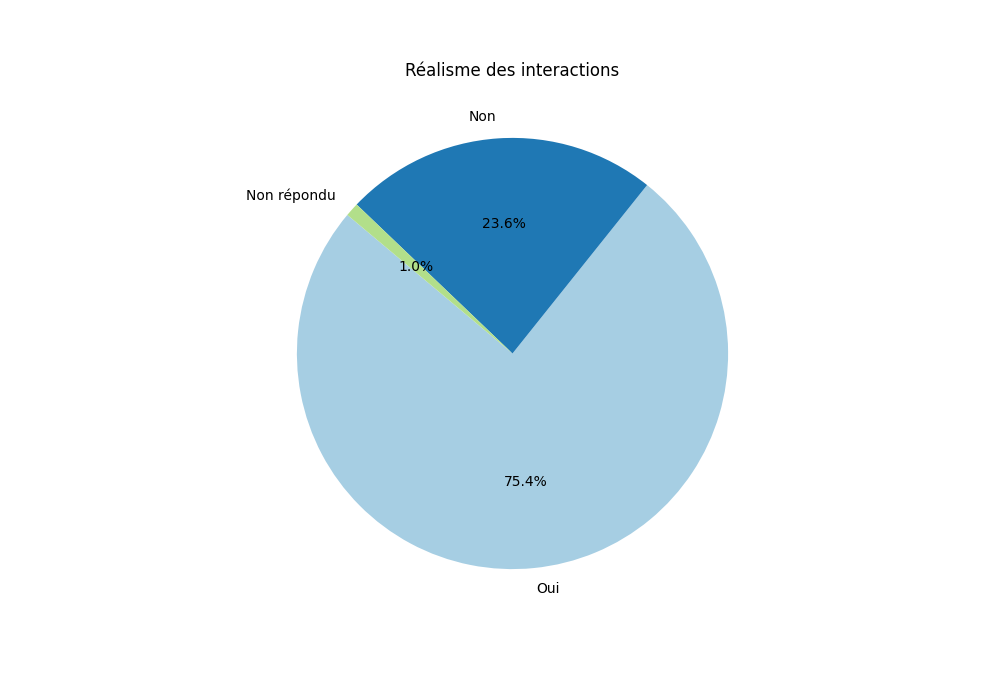
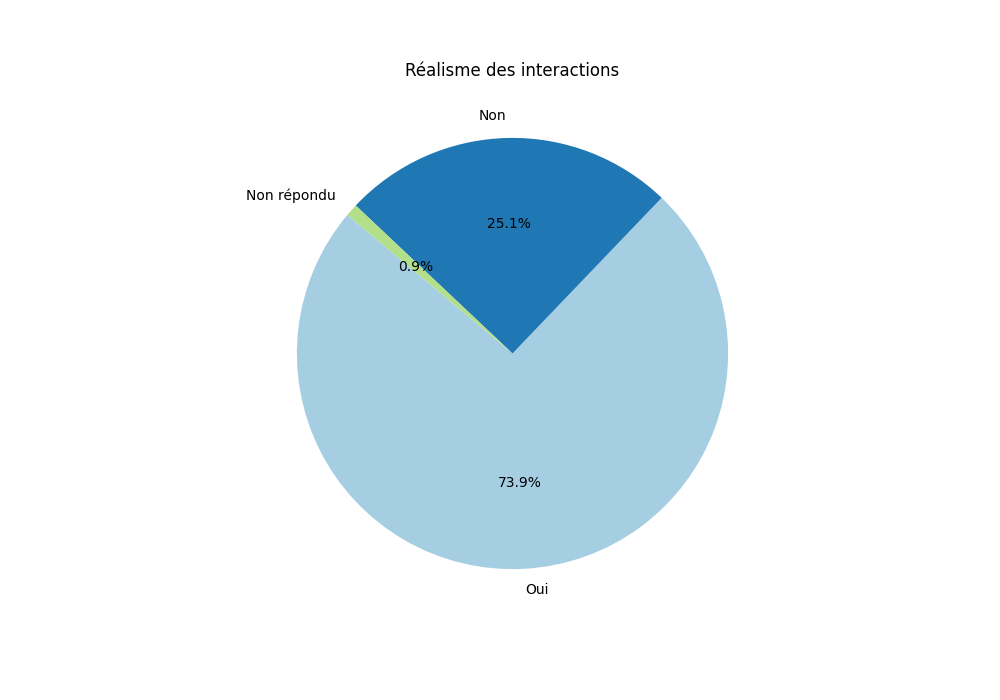
ajout évaluations et MAJ rapport

diff --git a/sondages/conversations/output/rapport_statistique.md b/sondages/conversations/output/rapport_statistique.md
@@ -1,7 +1,7 @@
 # Rapport Statistique
 
-## Nombre total de conversations : 39
-## Nombre total d'échanges : 195
+## Nombre total de conversations : 43
+## Nombre total d'échanges : 215
 
 ## Graphiques
 
@@ -19,134 +19,134 @@
 
 ## Statistiques pour Échange 1
 ### Note pertinence question
-- **Moyenne**: 4.846153846153846
+- **Moyenne**: 4.8604651162790695
 - **Médiane**: 5.0
-- **Écart-type**: 0.36551776819519566
+- **Écart-type**: 0.350604603563426
 - **Min**: 4.0
 - **Max**: 5.0
-- **Nombre de valeurs**: 39
+- **Nombre de valeurs**: 43
 ### Note pertinence réponse
-- **Moyenne**: 4.512820512820513
+- **Moyenne**: 4.511627906976744
 - **Médiane**: 5.0
-- **Écart-type**: 0.9139790067782242
+- **Écart-type**: 0.8829628968976533
 - **Min**: 2
 - **Max**: 5
-- **Nombre de valeurs**: 39
+- **Nombre de valeurs**: 43
 ### Réalisme interaction
-- **Oui**: 84.62%
-- **Non**: 12.82%
-- **Non répondu**: 2.56%
+- **Oui**: 83.72%
+- **Non**: 13.95%
+- **Non répondu**: 2.33%
 ### Réalisme moyen
-- 84.61538461538461
+- 83.72093023255815
 
 ## Statistiques pour Échange 2
 ### Note pertinence question
-- **Moyenne**: 4.743589743589744
+- **Moyenne**: 4.767441860465116
 - **Médiane**: 5.0
-- **Écart-type**: 0.5485842409017252
+- **Écart-type**: 0.5272213460490666
 - **Min**: 3.0
 - **Max**: 5.0
-- **Nombre de valeurs**: 39
+- **Nombre de valeurs**: 43
 ### Note pertinence réponse
-- **Moyenne**: 4.410256410256411
+- **Moyenne**: 4.465116279069767
 - **Médiane**: 5.0
-- **Écart-type**: 0.7510676161988108
+- **Écart-type**: 0.7351331984685407
 - **Min**: 3
 - **Max**: 5
-- **Nombre de valeurs**: 39
+- **Nombre de valeurs**: 43
 ### Réalisme interaction
-- **Oui**: 82.05%
-- **Non**: 15.38%
-- **Non répondu**: 2.56%
+- **Oui**: 83.72%
+- **Non**: 13.95%
+- **Non répondu**: 2.33%
 ### Réalisme moyen
-- 82.05128205128204
+- 83.72093023255815
 
 ## Statistiques pour Échange 3
 ### Note pertinence question
-- **Moyenne**: 4.512820512820513
+- **Moyenne**: 4.488372093023256
 - **Médiane**: 5.0
-- **Écart-type**: 0.854455655336526
+- **Écart-type**: 0.8555725741740722
 - **Min**: 1.0
 - **Max**: 5.0
-- **Nombre de valeurs**: 39
+- **Nombre de valeurs**: 43
 ### Note pertinence réponse
-- **Moyenne**: 3.8461538461538463
+- **Moyenne**: 3.86046511627907
 - **Médiane**: 4.0
-- **Écart-type**: 1.1364409248652136
+- **Écart-type**: 1.125069211603006
 - **Min**: 1
 - **Max**: 5
-- **Nombre de valeurs**: 39
+- **Nombre de valeurs**: 43
 ### Réalisme interaction
-- **Oui**: 79.49%
-- **Non**: 20.51%
+- **Oui**: 76.74%
+- **Non**: 23.26%
 ### Réalisme moyen
-- 79.48717948717949
+- 76.74418604651163
 
 ## Statistiques pour Échange 4
 ### Note pertinence question
-- **Moyenne**: 4.157894736842105
+- **Moyenne**: 4.142857142857143
 - **Médiane**: 4.0
-- **Écart-type**: 0.9733285267845754
+- **Écart-type**: 1.0017406453556186
 - **Min**: 2.0
 - **Max**: 5.0
-- **Nombre de valeurs**: 38
+- **Nombre de valeurs**: 42
 ### Note pertinence réponse
-- **Moyenne**: 4.076923076923077
+- **Moyenne**: 4.069767441860465
 - **Médiane**: 4.0
-- **Écart-type**: 1.0608987099975635
+- **Écart-type**: 1.0778141203205438
 - **Min**: 1
 - **Max**: 5
-- **Nombre de valeurs**: 39
+- **Nombre de valeurs**: 43
 ### Réalisme interaction
-- **Oui**: 66.67%
-- **Non**: 33.33%
+- **Oui**: 67.44%
+- **Non**: 32.56%
 ### Réalisme moyen
-- 66.66666666666666
+- 67.44186046511628
 
 ## Statistiques pour Échange 5
 ### Note pertinence question
-- **Moyenne**: 4.358974358974359
+- **Moyenne**: 4.209302325581396
 - **Médiane**: 5.0
-- **Écart-type**: 0.842526885005348
-- **Min**: 3.0
+- **Écart-type**: 0.9400643223910575
+- **Min**: 2.0
 - **Max**: 5.0
-- **Nombre de valeurs**: 39
+- **Nombre de valeurs**: 43
 ### Note pertinence réponse
-- **Moyenne**: 3.7435897435897436
+- **Moyenne**: 3.604651162790698
 - **Médiane**: 4.0
-- **Écart-type**: 1.2078242447507945
+- **Écart-type**: 1.2562137913989786
 - **Min**: 1
 - **Max**: 5
-- **Nombre de valeurs**: 39
+- **Nombre de valeurs**: 43
 ### Réalisme interaction
-- **Oui**: 64.1%
-- **Non**: 35.9%
+- **Oui**: 58.14%
+- **Non**: 41.86%
 ### Réalisme moyen
-- 64.1025641025641
+- 58.139534883720934
 
 ## Statistiques pour Global
 ### Note pertinence question
-- **Moyenne**: 4.525773195876289
+- **Moyenne**: 4.4953271028037385
 - **Médiane**: 5.0
-- **Écart-type**: 0.7831487329560498
+- **Écart-type**: 0.8207843697971494
 - **Min**: 1.0
 - **Max**: 5.0
-- **Nombre de valeurs**: 194
+- **Nombre de valeurs**: 214
 ### Note pertinence réponse
-- **Moyenne**: 4.1179487179487175
+- **Moyenne**: 4.102325581395349
 - **Médiane**: 5.0
-- **Écart-type**: 1.0607505111199012
+- **Écart-type**: 1.0803011807662548
 - **Min**: 1
 - **Max**: 5
-- **Nombre de valeurs**: 195
+- **Nombre de valeurs**: 215
 ### Réalisme interaction
-- **Oui**: 75.38%
-- **Non**: 23.59%
-- **Non répondu**: 1.03%
+- **Oui**: 73.95%
+- **Non**: 25.12%
+- **Non répondu**: 0.93%
 
 ## Conversations les plus mal notées
-- **Moins pertinente** : conversation_6 (Score: 3.6)
-- **Moins réaliste** : conversation_6 (Score: 30.0)
+- **Moins pertinente** : conversation_7 (Score: 3.7333333333333334)
+- **Moins réaliste** : conversation_11 (Score: 40.0)
 ## Conversations les mieux notées
 - **Plus pertinente** : conversation_12 (Score: 4.8)
 - **Plus réaliste** : conversation_10 (Score: 100.0)
@@ -162,11 +162,11 @@
 - **conversation_16** : 1.0 évaluations
 - **conversation_17** : 4.0 évaluations
 - **conversation_18** : 3.0 évaluations
-- **conversation_2** : 1.0 évaluations
-- **conversation_3** : 3.0 évaluations
+- **conversation_2** : 2.0 évaluations
+- **conversation_3** : 4.0 évaluations
 - **conversation_4** : 1.0 évaluations
 - **conversation_5** : 2.0 évaluations
-- **conversation_6** : 2.0 évaluations
+- **conversation_6** : 4.0 évaluations
 - **conversation_7** : 3.0 évaluations
 - **conversation_8** : 3.0 évaluations
 - **conversation_9** : 3.0 évaluations
@@ -181,11 +181,11 @@
 - **conversation_16** : Moyenne pertinence: 4.7, Réalisme moyen: 100.0%
 - **conversation_17** : Moyenne pertinence: 4.28, Réalisme moyen: 85.0%
 - **conversation_18** : Moyenne pertinence: 4.4, Réalisme moyen: 87.0%
-- **conversation_2** : Moyenne pertinence: 4.7, Réalisme moyen: 80.0%
-- **conversation_3** : Moyenne pertinence: 4.63, Réalisme moyen: 73.0%
+- **conversation_2** : Moyenne pertinence: 4.3, Réalisme moyen: 50.0%
+- **conversation_3** : Moyenne pertinence: 4.58, Réalisme moyen: 75.0%
 - **conversation_4** : Moyenne pertinence: 4.8, Réalisme moyen: 100.0%
 - **conversation_5** : Moyenne pertinence: 4.65, Réalisme moyen: 100.0%
-- **conversation_6** : Moyenne pertinence: 3.6, Réalisme moyen: 30.0%
+- **conversation_6** : Moyenne pertinence: 3.8, Réalisme moyen: 50.0%
 - **conversation_7** : Moyenne pertinence: 3.73, Réalisme moyen: 67.0%
 - **conversation_8** : Moyenne pertinence: 4.3, Réalisme moyen: 47.0%
 - **conversation_9** : Moyenne pertinence: 4.13, Réalisme moyen: 67.0%
